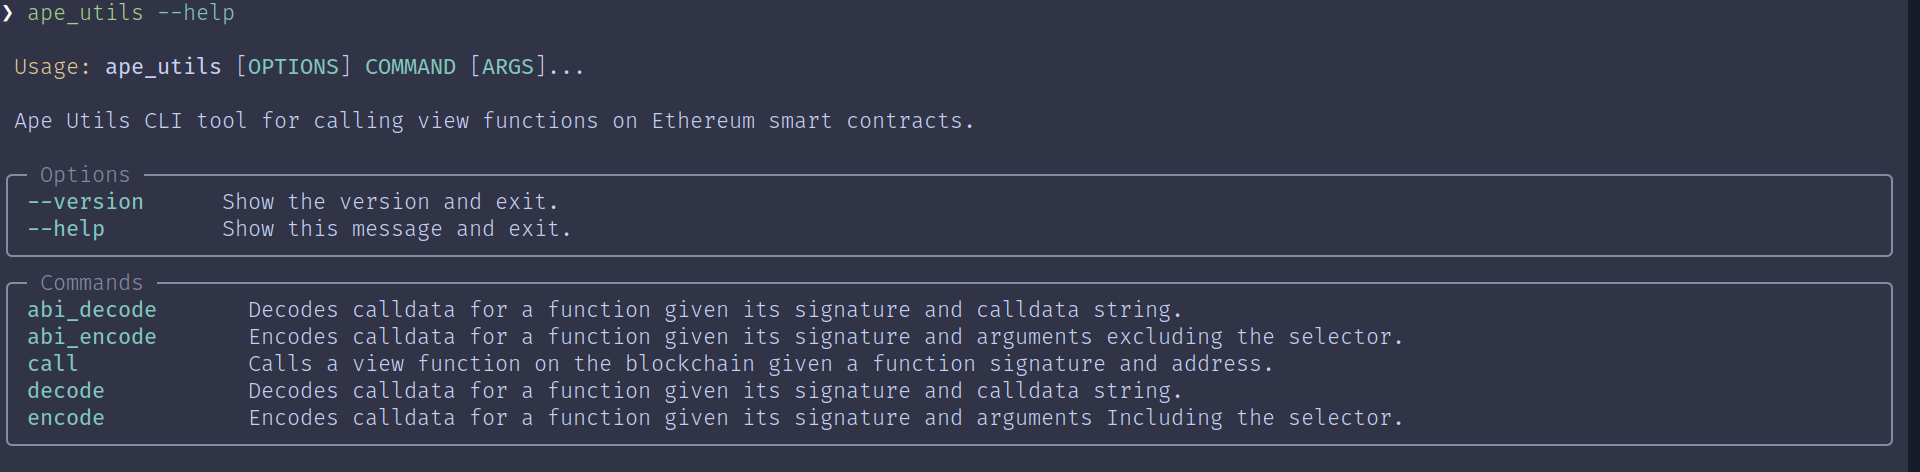
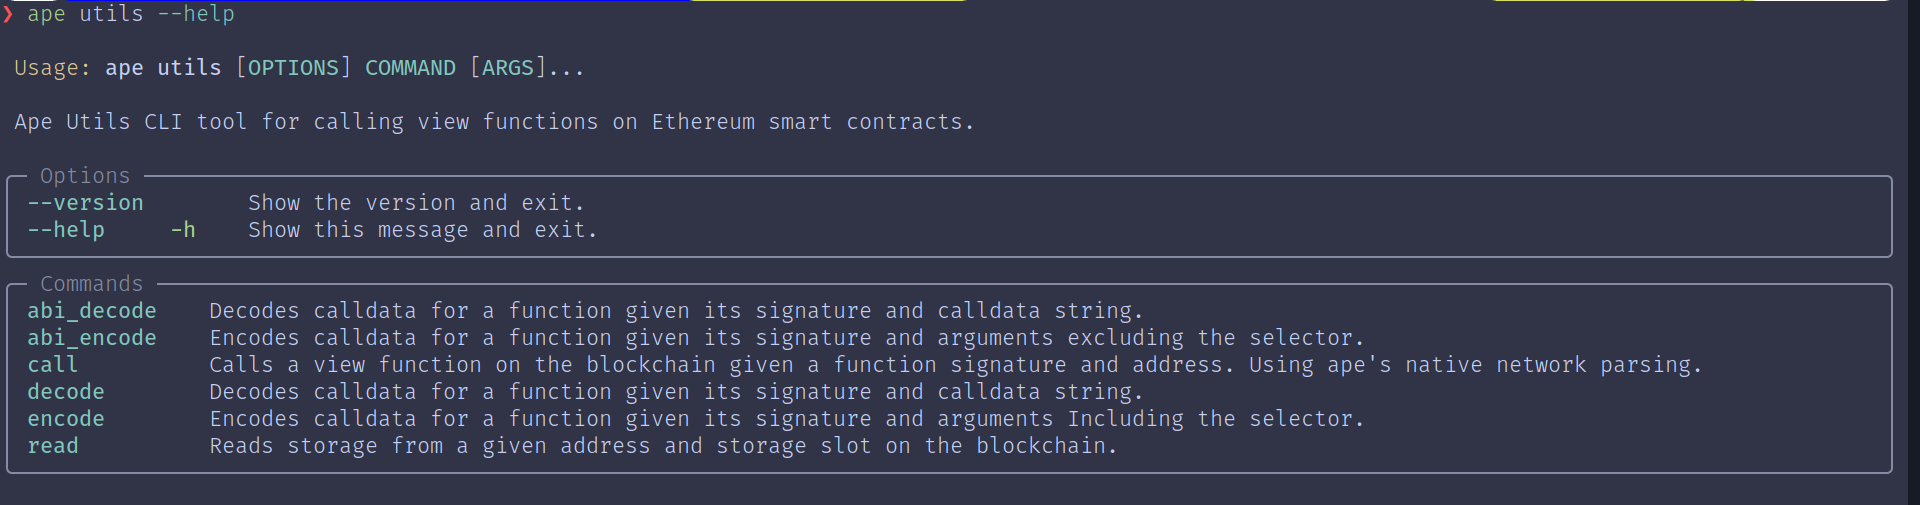
feat: added option to read contract storage from slot using the read method

diff --git a/src/ape_utils/_cli.py b/src/ape_utils/_cli.py
@@ -19,6 +19,7 @@ from ape_utils.utils import (
     call_view_function,
     decode_calldata,
     encode_calldata,
+    read_storage,
 )
 
 install()
@@ -76,115 +77,169 @@ def cli() -> None:
 @click.command(cls=ConnectedProviderCommand)
 @click.option(
     "--function-sig",
+    "-s",
     required=True,
     help="The function signature (e.g., function_name(input param type)(output param type)).",
 )
-@click.option("--address", required=True, help="The address of the smart contract.")
-@click.option("--args", required=True, help="The arguments for the function call.", cls=PythonLiteralOption)
+@click.option("--address", "-a", required=True, help="The address of the smart contract.")
+@click.option("--args", "-ag", required=True, help="The arguments for the function call.", cls=PythonLiteralOption)
+@click.option("--raw", "-r", is_flag=True, help="Print raw data without colorful output or additional text.")
 @network_option(default="ethereum:local:node", required=True)
-def call_view_function_from_cli(function_sig: str, address: str, args: str, provider: Node) -> None:
+def call_view_function_from_cli(function_sig: str, address: str, args: str, provider: Node, raw: bool) -> None:  # noqa: FBT001
     """
     Calls a view function on the blockchain given a function signature and address.
     Using ape's native network parsing.
     """
     try:
-        # console.print(provider.web3.provider)
-        # console.print(dir(provider.web3))
         parsed_args = list(args)
-        # console.print(f"{parsed_args=}")
         output = call_view_function(function_sig, address, parsed_args, provider)
-        console.print(f"[blue bold]Output: [green]{output}")
+        if raw:
+            console.print(output)
+        else:
+            console.print(f"[blue bold]Output: [green]{output}")
     except Exception as e:
-        console.print(f"Error: [red]{e!s}")
+        if raw:
+            console.print(e)
+        else:
+            console.print(f"Error: [red]{e!s}")
+        raise e
+
+
+@click.command(cls=ConnectedProviderCommand)
+@click.option("--address", "-a", required=True, help="The address of the smart contract.")
+@click.option("--slot", required=True, type=int, help="The storage slot to read from the contract.")
+@click.option("--raw", "-r", is_flag=True, help="Print raw data without colorful output or additional text.")
+@network_option(default="ethereum:local:node", required=True)
+def read_storage_from_cli(address: str, slot: int, provider: Node, raw: bool) -> None:  # noqa: ARG001, FBT001
+    """
+    Reads storage from a given address and storage slot on the blockchain.
+    """
+    try:
+        data = read_storage(address, slot)
+        if raw:
+            console.print(data)
+        else:
+            console.print(f"[blue bold]Storage Data: [green]{data}")
+    except Exception as e:
+        if raw:
+            console.print(e)
+        else:
+            console.print(f"Error: [red]{e!s}")
         raise e
 
 
 @click.command(cls=rclick.RichCommand)
 @click.option(
     "--signature",
+    "-s",
     help="The function signature (e.g., function_name(input param type)).",
     required=True,
 )
 @click.argument("args", nargs=-1, type=str)
-def abi_encode(signature: str, args: Any) -> None:
+@click.option("--raw", "-r", is_flag=True, help="Print raw data without colorful output or additional text.")
+def abi_encode(signature: str, args: Any, raw: bool) -> None:  # noqa: FBT001
     """
     Encodes calldata for a function given its signature and arguments excluding the selector.
     """
     try:
         calldata = abi_encode_calldata(signature, *args)
-        console.print(f"[blue bold]Encoded Calldata: [green]{calldata.hex()}")
+        if raw:
+            console.print(calldata.hex())
+        else:
+            console.print(f"[blue bold]Encoded Calldata: [green]{calldata.hex()}")
     except Exception as e:
-        console.print(f"Error: [red]{e!s}")
-        # TODO: Raise if debug mode is enabled
-        # raise e
+        if raw:
+            console.print(e)
+        else:
+            console.print(f"Error: [red]{e!s}")
 
 
 @click.command(cls=rclick.RichCommand)
 @click.option(
     "--signature",
+    "-s",
     help="The function signature (e.g., function_name(input param type)).",
     required=True,
 )
 @click.argument("calldata", type=str)
-def abi_decode(signature: str, calldata: str) -> None:
+@click.option("--raw", "-r", is_flag=True, help="Print raw data without colorful output or additional text.")
+def abi_decode(signature: str, calldata: str, raw: bool) -> None:  # noqa: FBT001
     """
     Decodes calldata for a function given its signature and calldata string.
     """
     try:
         decoded_data = abi_decode_calldata(signature, calldata)
-        # * print the ouput in a single line
-        console.print("[blue bold]Decoded Data: ", end="")
-        pprint(decoded_data)
+        if raw:
+            console.print(decoded_data)
+        else:
+            console.print("[blue bold]Decoded Data: ", end="")
+            pprint(decoded_data)
     except Exception as e:
-        console.print(f"Error: [red]{e!s}")
+        if raw:
+            console.print(e)
+        else:
+            console.print(f"Error: [red]{e!s}")
 
 
 @click.command(cls=rclick.RichCommand)
 @click.option(
     "--signature",
+    "-s",
     help="The function signature (e.g., function_name(input param type)).",
     required=True,
 )
 @click.argument("args", nargs=-1, type=str)
-def encode(signature: str, args: Any) -> None:
+@click.option("--raw", "-r", is_flag=True, help="Print raw data without colorful output or additional text.")
+def encode(signature: str, args: Any, raw: bool) -> None:  # noqa: FBT001
     """
     Encodes calldata for a function given its signature and arguments Including the selector.
     """
     try:
         calldata = encode_calldata(signature, *args)
-        console.print(f"[blue bold]Encoded Calldata: [green]{calldata.hex()}")
+        if raw:
+            console.print(calldata.hex())
+        else:
+            console.print(f"[blue bold]Encoded Calldata: [green]{calldata.hex()}")
     except Exception as e:
-        console.print(f"Error: [red]{e!s}")
-        # TODO: Raise if debug mode is enabled
-        # raise e
+        if raw:
+            console.print(e)
+        else:
+            console.print(f"Error: [red]{e!s}")
 
 
 @click.command(cls=rclick.RichCommand)
 @click.option(
     "--signature",
+    "-s",
     help="The function signature (e.g., function_name(input param type)).",
     required=True,
 )
 @click.argument("calldata", type=str)
-def decode(signature: str, calldata: str) -> None:
+@click.option("--raw", "-r", is_flag=True, help="Print raw data without colorful output or additional text.")
+def decode(signature: str, calldata: str, raw: bool) -> None:  # noqa: FBT001
     """
     Decodes calldata for a function given its signature and calldata string.
     """
     try:
         decoded_data = decode_calldata(signature, calldata)
-        # * print the ouput in a single line
-        console.print("[blue bold]Decoded Data: ", end="")
-        pprint(decoded_data)
+        if raw:
+            console.print(decoded_data)
+        else:
+            console.print("[blue bold]Decoded Data: ", end="")
+            pprint(decoded_data)
     except Exception as e:
-        console.print(f"Error: [red]{e!s}")
+        if raw:
+            console.print(e)
+        else:
+            console.print(f"Error: [red]{e!s}")
 
 
-# * Add commands to the CLI group
 cli.add_command(call_view_function_from_cli, name="call")
 cli.add_command(abi_encode, name="abi_encode")
 cli.add_command(abi_decode, name="abi_decode")
 cli.add_command(encode, name="encode")
 cli.add_command(decode, name="decode")
+cli.add_command(read_storage_from_cli, name="read")
 
 if __name__ == "__main__":
     call_view_function_from_cli()

diff --git a/src/ape_utils/utils.py b/src/ape_utils/utils.py
@@ -2,7 +2,8 @@ from typing import Any, Union
 
 import ape
 import ethpm_types
-from ape.types import HexBytes
+from ape import networks
+from ape.types import AddressType, HexBytes
 from ape_node.provider import Node
 from eth_utils import keccak
 from ethpm_types import MethodABI
@@ -180,6 +181,47 @@ def decode_calldata(signature: str, encoded_data: str) -> Union[dict, Any]:
     method_abi: MethodABI = ethpm_types.abi.MethodABI.from_signature(signature)
     encoded_data_bytes: bytes = bytes.fromhex(encoded_data[2 + 8 :])
     return ape.networks.ethereum.decode_calldata(method_abi, encoded_data_bytes)
+
+
+def read_storage(address: Union[AddressType, str], slot: int) -> Any:
+    """
+    Gets the raw value of a storage slot of a contract.
+
+    This function interacts with the blockchain to read the storage data of a
+    specified contract address at a given storage slot. It uses the provider
+    from the Ape framework to fetch the storage data.
+
+    Args:
+        address (Union[AddressType, str]): The address of the smart contract whose storage
+            data is to be read. This should be a valid Ethereum address.
+        slot (int): The storage slot number from which to read the data. This
+            should be a non-negative integer representing the position in the
+            contract's storage.
+
+    Returns:
+        Any: The data stored at the specified storage slot of the given address.
+            The return type can vary depending on the data stored at the slot.
+
+    Example:
+        >>> address = "0x1234567890abcdef1234567890abcdef12345678"
+        >>> slot = 5
+        >>> data = read_storage(address, slot)
+        >>> print(data)
+
+    Notes:
+        - This function requires a connection to an Ethereum network through
+          the Ape framework.
+        - Ensure that the address and slot provided are valid and exist in the
+          context of the smart contract's storage.
+
+    Raises:
+        ValueError: If the provided address or slot is invalid.
+        ConnectionError: If there is an issue connecting to the Ethereum network.
+
+    """
+    data = networks.provider.get_storage(address, slot)
+
+    return data
 
 
 if __name__ == "__main__":

diff --git a/src/ape_utils/__version__.py b/src/ape_utils/__version__.py
@@ -1,1 +1,1 @@
-version = "0.0.5"
+version = "0.0.6"

diff --git a/README.md b/README.md
@@ -56,6 +56,8 @@ To call a view function with the signature `call_this_view_function(uint256)(str
 ```bash
 # function which takes a single input parameter
 ape_utils call --function-sig "call_this_view_function(uint256)(string)" --address "0x80E097a70cacA11EB71B6401FB12D48A1A61Ef54" --args '[6147190]' --network :sepolia:infura
+# or
+ape utils call -s "call_this_view_function(uint256)(string)" -a "0x80E097a70cacA11EB71B6401FB12D48A1A61Ef54" -ag '[6147190]' --network :sepolia:infura
 ```
 
 #### Calling a view function with multiple parameter
@@ -99,6 +101,20 @@ ape_utils encode --signature "call_this_view_function(uint256 arg1)" 1234
 
 ```sh
[1 lines of base64/hex data omitted]
+```
+
+#### Don't want beautiful print statements ?
+
+You can now pass the `--raw` flag to each option to print the output data only
+
+```sh
+ape_utils encode --signature 'isLastFloor(uint256 arg1)' 1234 --raw
+```
+
+#### Read storage slots of a contract
+
+```sh
+ape utils read --address "0xDbB18e367E4A2A36A9F2AF7af8b3c743938deCF2" --slot 1 --network :sepolia
 ```
 
 ![working](media/working.png)
